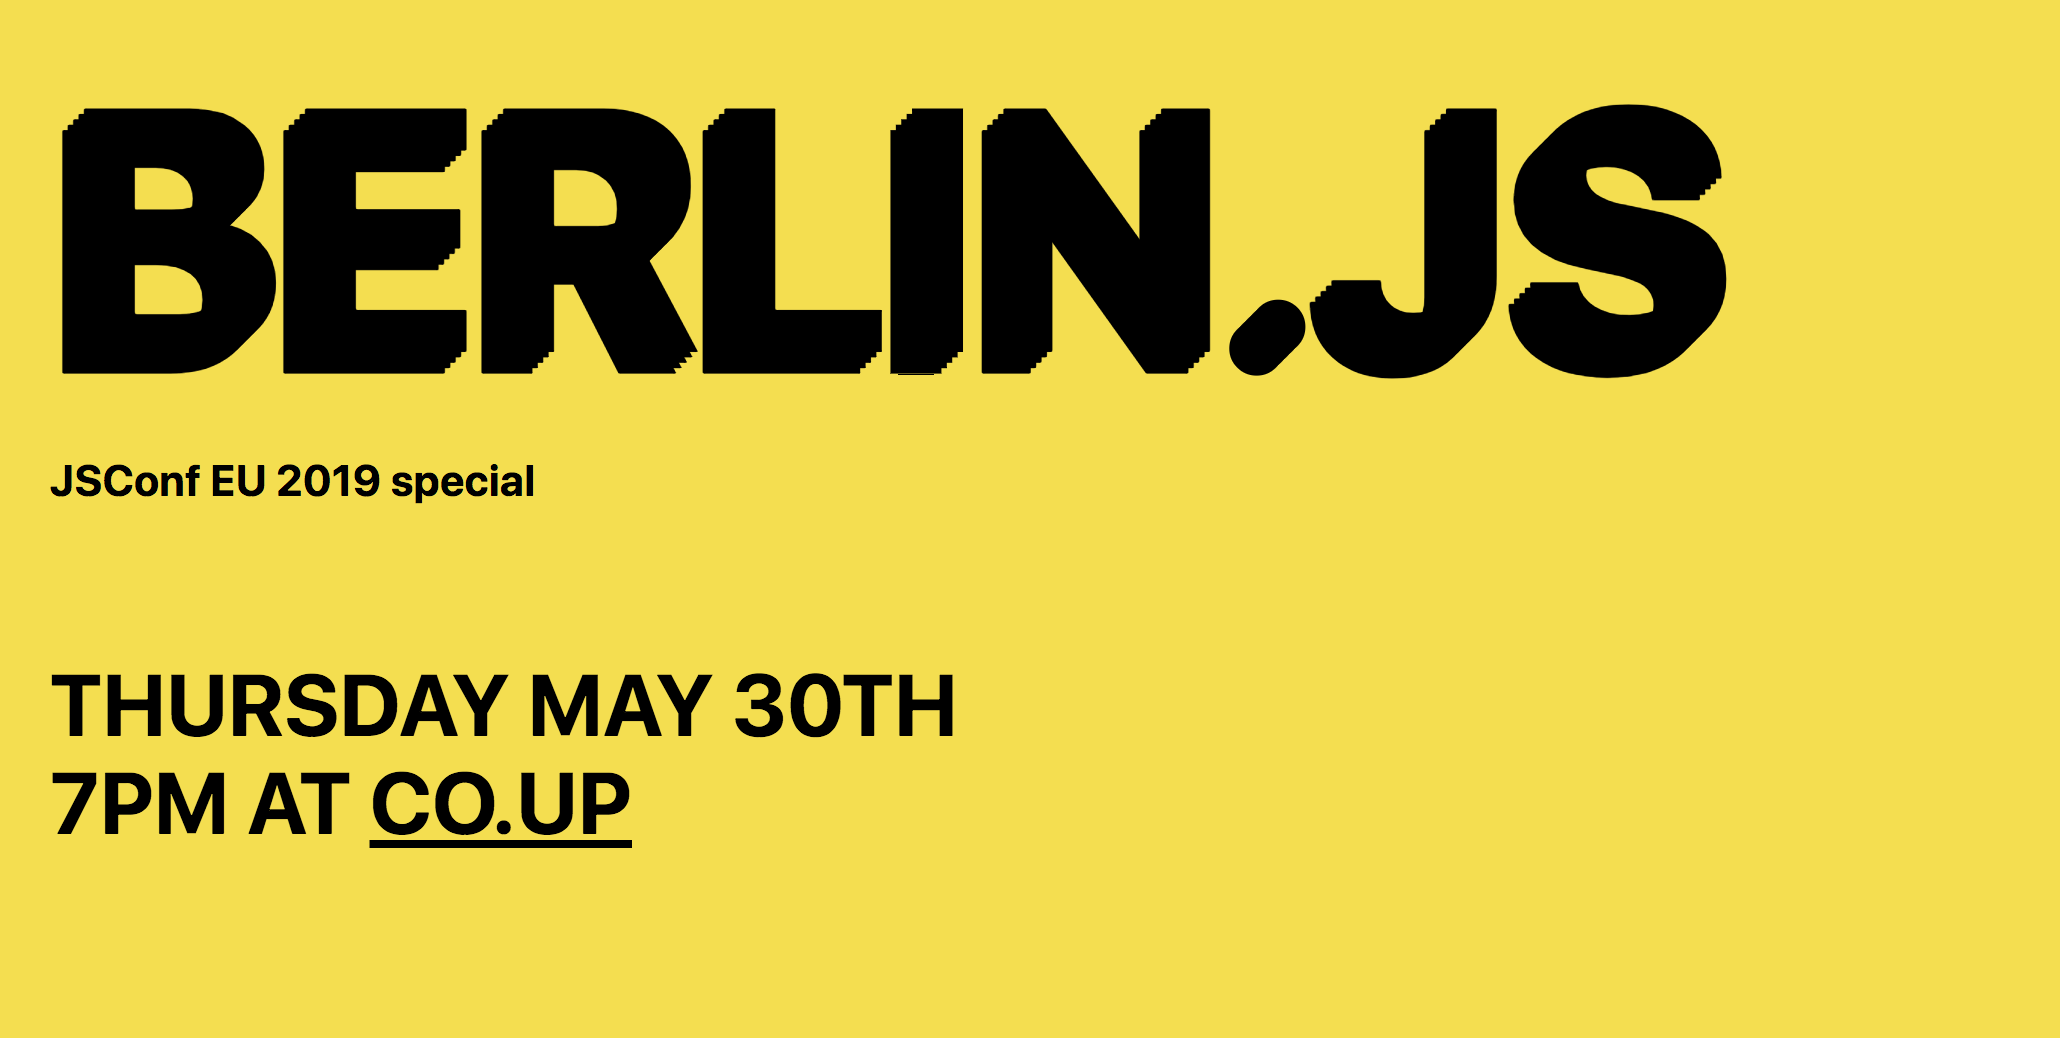
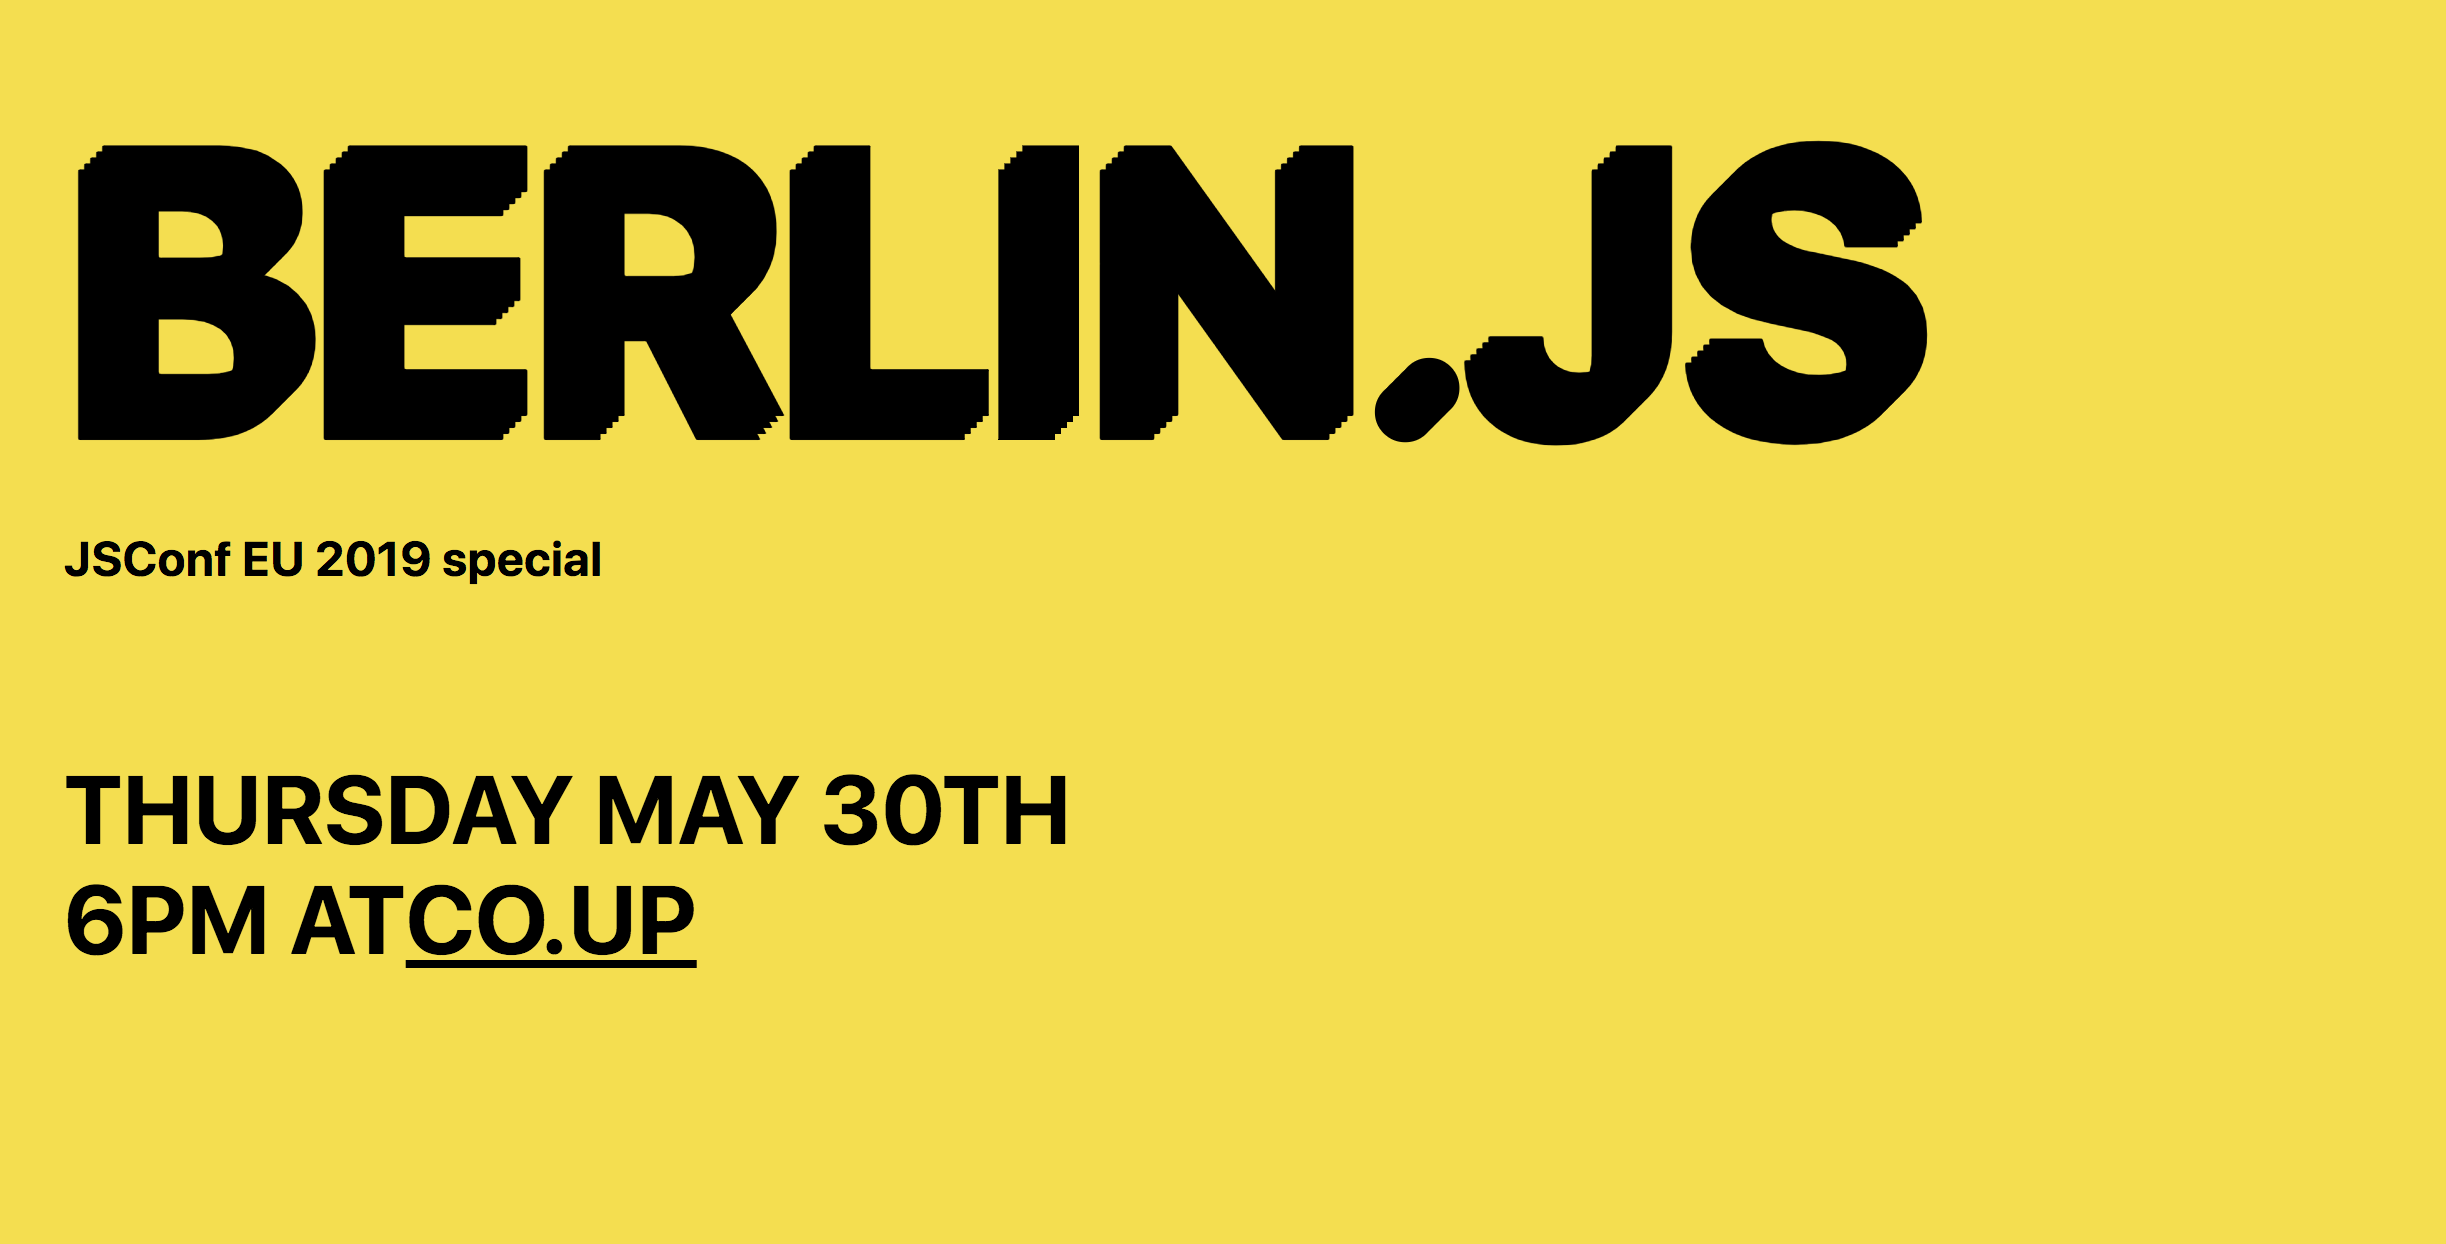
:memo: Updated README with new time and meetup link

diff --git a/README.md b/README.md
@@ -4,9 +4,9 @@
 the color of javascript. Or something haha](./assets/screenshot.png)
 
 - Date: May 30, 2019
-- Time: 19:00 / 7 PM
+- Time: 18:00 / 6 PM
 - Location: co.up, 3rd floor.
-- Meetup link: TBD
+- Meetup link: https://www.meetup.com/Berlin-JS/events/261385945/
 - After Meetup: TBD - We're coordinating with CSSConf EU!
 
 Rough idea: We want to have a meetup where we bring people together who are in
